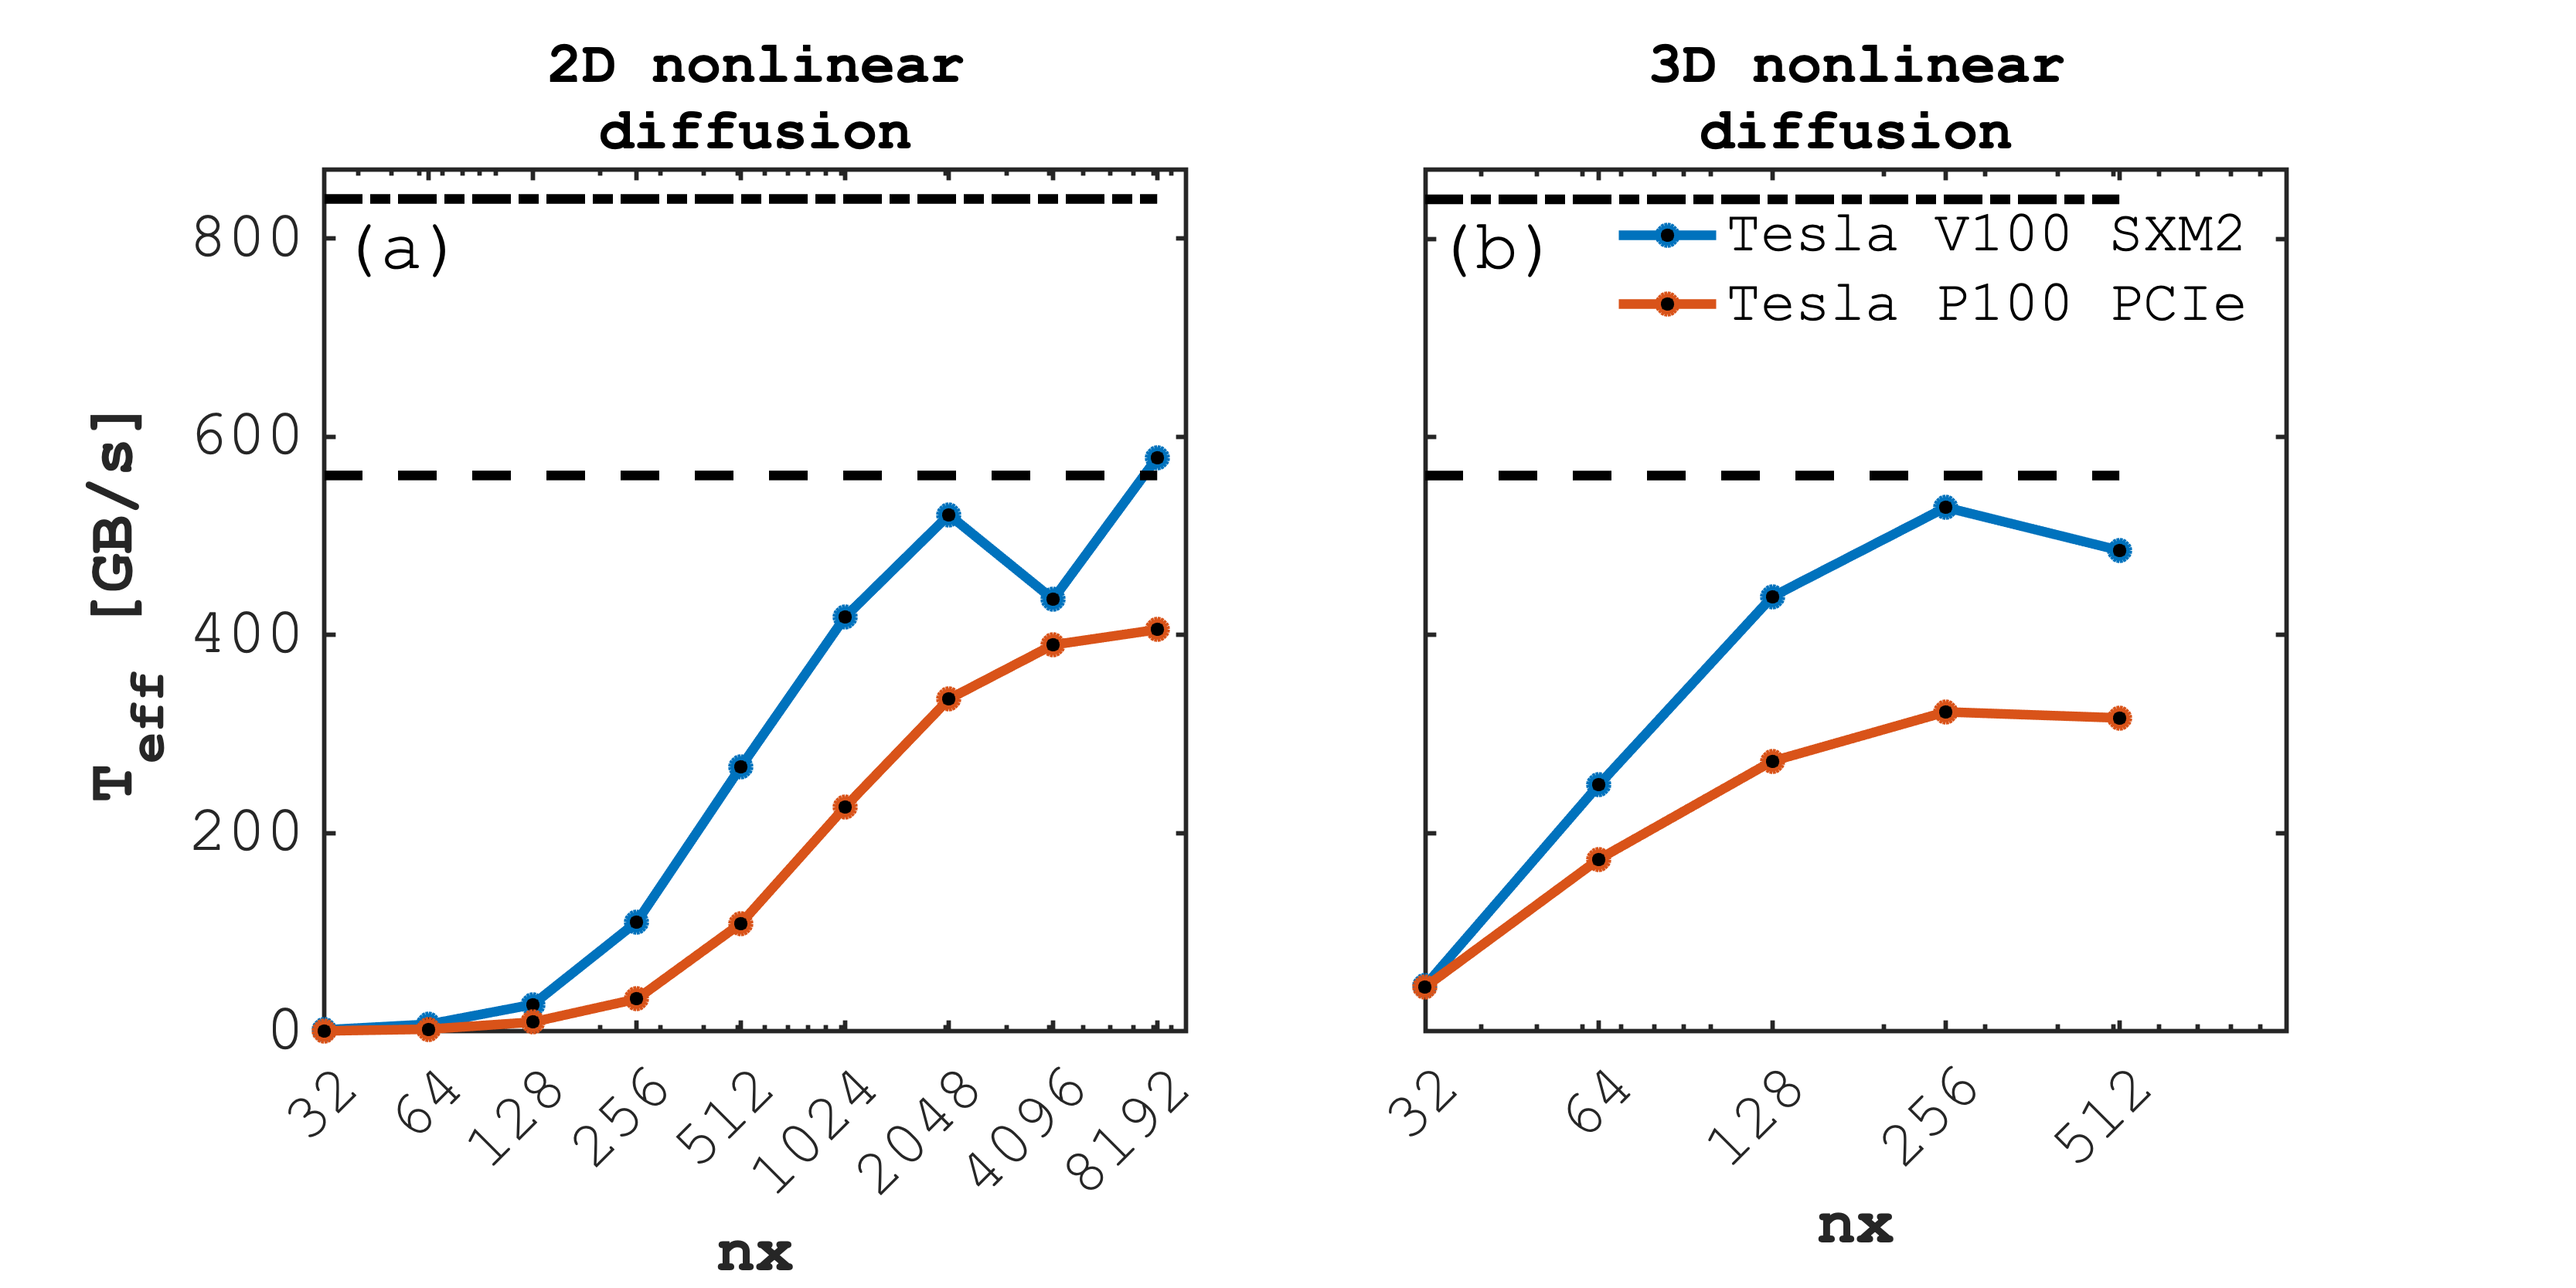
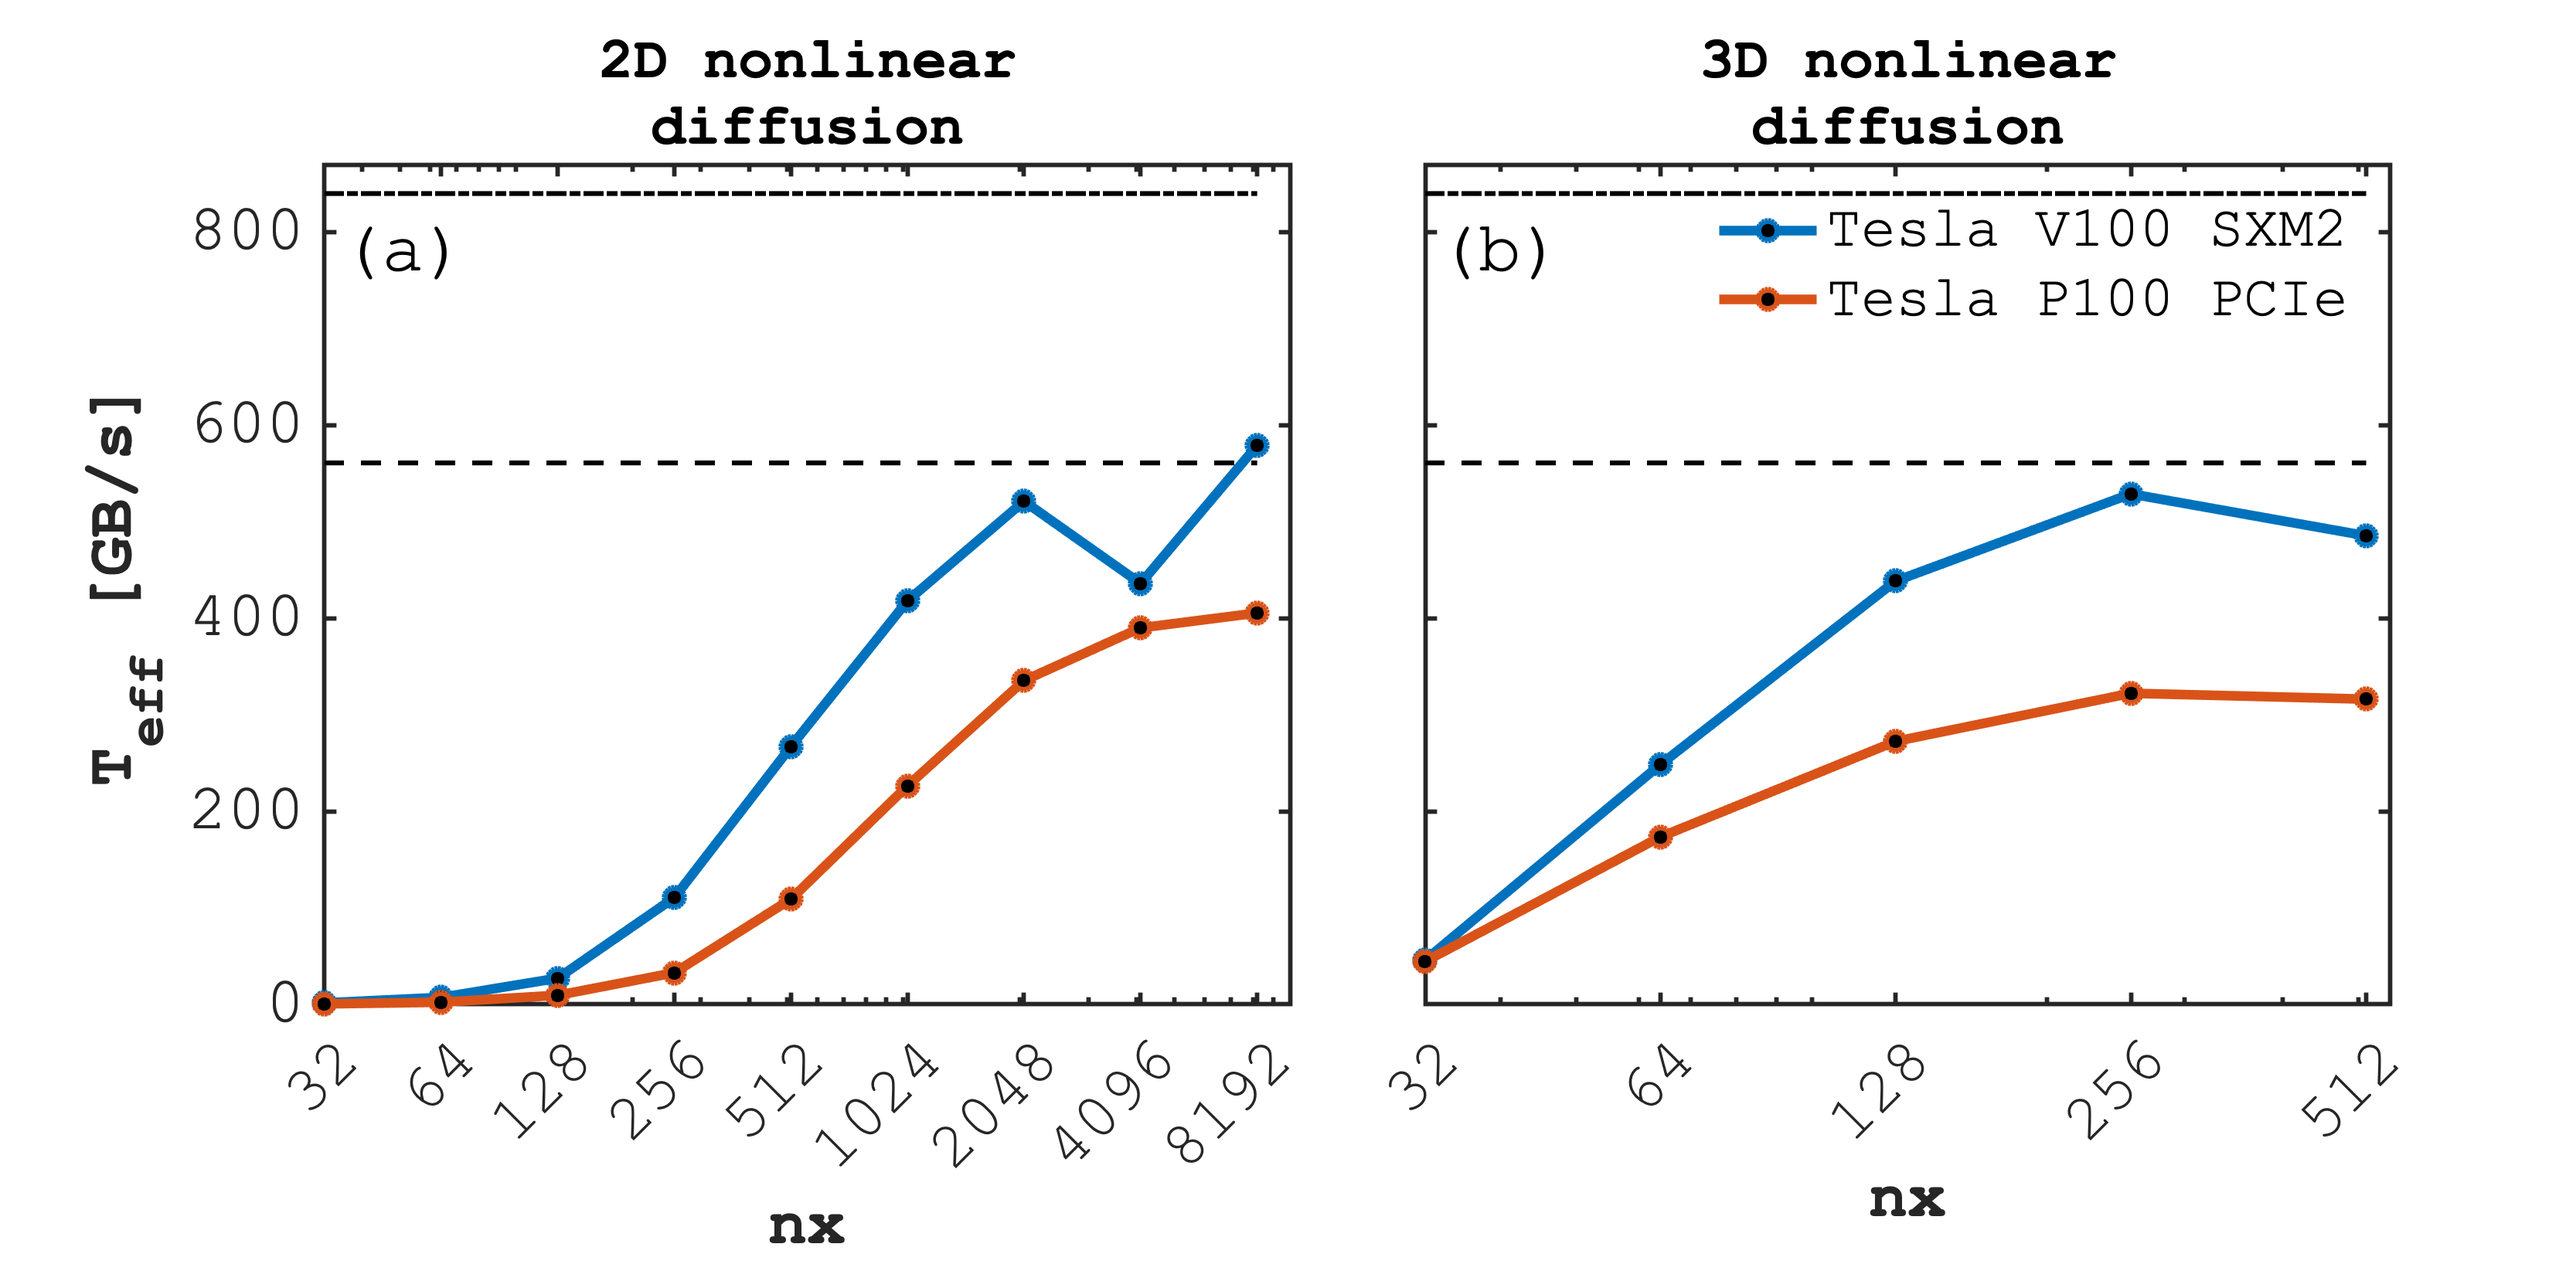
Update figure layout.

diff --git a/visu/viz_perf.m b/visu/viz_perf.m
@@ -50,14 +50,16 @@ single_daint_diff   = 315.6;
 single_daint_stokes = 210.2;
 single_volta_diff   = 481.1;
 single_volta_stokes = 334.1;
+sc = 100; % to get percent
 
 FS = 20;
 mylim = [0 870];
-ylab = 790;
+mylimx = [32 550];
+ylab = 780;
 
-mylim2 = [0.959 1.003];
-mylimx = [0.8 3.e3];
-ylab2 = 0.963;
+mylim2  = [0.959 1.003].*sc;
+mylimx2 = [0.8 3.e3];
+ylab2 = 0.963*sc;
 
 fig1 = 1;
 fig2 = 1;
@@ -70,11 +72,14 @@ sp1 = subplot(121);
 %diff_2D_octo_2(1,:),T_peak_octo*ones(size(diff_2D_octo_2(1,:))), 'k--',...
 semilogx(diff_2D_volta_2(1,:),diff_2D_volta_2(end,:), '-o', ...
          diff_2D_daint_2(1,:),diff_2D_daint_2(end,:), '-o', ...
-         diff_2D_octo_2(1,:),T_peak_volta*ones(size(diff_2D_octo_2(1,:))),'k-.', ...
+         'linewidth',3, 'MarkerFaceColor','k'), set(gca, 'fontsize',FS, 'linewidth',1.4)
+hold on
+semilogx(diff_2D_octo_2(1,:),T_peak_volta*ones(size(diff_2D_octo_2(1,:))),'k-.', ...
          diff_2D_octo_2(1,:),T_peak_daint*ones(size(diff_2D_octo_2(1,:))),'k--', ...
-         'linewidth',3, 'MarkerFaceColor','k'), axis square, set(gca, 'fontsize',FS, 'linewidth',1.4)
+         'linewidth',1.5, 'MarkerFaceColor','k')
+hold off
 title({'2D nonlinear'; 'diffusion'},'fontsize',FS-2)
- ylabel({' ';'\bf{T_{eff} [GB/s]}'}, 'fontsize',FS)
+ylabel({' ';'\bf{T_{eff} [GB/s]}'}, 'fontsize',FS)
 ylim(mylim)
 set(gca, 'XTick',diff_2D_octo_2(1,:))
 xtickangle(45)
@@ -88,20 +93,24 @@ sp2 = subplot(122);
 %diff_3D_volta_2(2,:),T_peak_octo*ones(size(diff_3D_volta_2(2,:))), 'k--',...
 semilogx(diff_3D_volta_2(2,:),diff_3D_volta_2(end,:), '-o', ...
          diff_3D_daint_2(2,:),diff_3D_daint_2(end,:), '-o', ...
-         diff_3D_volta_2(2,:),T_peak_volta*ones(size(diff_3D_volta_2(2,:))),'k-.', ...
+         'linewidth',3, 'MarkerFaceColor','k'), set(gca, 'fontsize',FS, 'linewidth',1.4)
+hold on
+semilogx(diff_3D_volta_2(2,:),T_peak_volta*ones(size(diff_3D_volta_2(2,:))),'k-.', ...
          diff_3D_volta_2(2,:),T_peak_daint*ones(size(diff_3D_volta_2(2,:))),'k--', ...
-     'linewidth',3, 'MarkerFaceColor','k'), axis square, set(gca, 'fontsize',FS, 'linewidth',1.4)
+         'linewidth',1.5, 'MarkerFaceColor','k')
+hold off
 title({'3D nonlinear'; 'diffusion'},'fontsize',FS-2)
 lg=legend('Tesla V100 SXM2', 'Tesla P100 PCIe'); set(lg,'box','off')
 ylim(mylim)
+xlim(mylimx)
 set(gca, 'XTick',diff_3D_volta_2(2,:), 'YTicklabel',[])
 xtickangle(45)
 set(gca,'fontname','Courier')
 xlabel('\bf{nx}', 'fontsize',FS)
 text(33,ylab,'(b)','fontsize',FS+2,'fontname','Courier')
 
-pos1 = get(sp1,'position'); set(sp1,'position',[pos1(1)*0.97  pos1(2)*1.15 pos1(3)*1 pos1(4)*1])
-pos2 = get(sp2,'position'); set(sp2,'position',[pos2(1)*0.97  pos2(2)*1.15 pos2(3)*1 pos2(4)*1])
+pos1 = get(sp1,'position'); set(sp1,'position',[pos1(1)*0.97  pos1(2)*2 pos1(3)*1.12 pos1(4)*0.8])
+pos2 = get(sp2,'position'); set(sp2,'position',[pos2(1)*0.97  pos2(2)*2 pos2(3)*1.12 pos2(4)*0.8])
 fig = gcf;
 fig.PaperPositionMode = 'auto';
 % print('fig_perf23D_diff_2','-dpng','-r300')
@@ -112,14 +121,14 @@ if fig2==1
 figure(2),clf,set(gcf,'color','white','pos',[1400 10 800 400])
 sp1 = subplot(121);
 % diff_3D_mxpu_octo_2(1,:),diff_3D_mxpu_octo_2(end,:)./diff_3D_mxpu_octo_2(end,1), '-o', ...
-semilogx(diff_3D_mxpu_volta_2(1,:),diff_3D_mxpu_volta_2(end,:)./single_volta_diff, '-o', ...
-         diff_3D_mxpu_daint_2(1,:),diff_3D_mxpu_daint_2(end,:)./single_daint_diff, '-o', ...
-        'linewidth',3, 'MarkerFaceColor','k'), axis square, set(gca, 'fontsize',FS, 'linewidth',1.4)
+semilogx(diff_3D_mxpu_volta_2(1,:),diff_3D_mxpu_volta_2(end,:)./single_volta_diff.*sc, '-o', ...
+         diff_3D_mxpu_daint_2(1,:),diff_3D_mxpu_daint_2(end,:)./single_daint_diff.*sc, '-o', ...
+        'linewidth',3, 'MarkerFaceColor','k'), set(gca, 'fontsize',FS, 'linewidth',1.4)
 title({'3D nonlinear'; 'diffusion'},'fontsize',FS-2)
-ylabel({' ';'\bf{E}'}, 'fontsize',FS)
+ylabel({' ';'\bf{E} [%]'}, 'fontsize',FS)
 % lg=legend('Titan Xm', 'Tesla V100 SXM2'); set(lg,'box','off')
 ylim(mylim2)
-xlim(mylimx)
+xlim(mylimx2)
 set(gca, 'XTick',diff_3D_mxpu_daint_2(1,:))
 xtickangle(45)
 set(gca,'fontname','Courier')
@@ -128,22 +137,22 @@ text(1.1,ylab2,'(a)','fontsize',FS+2,'fontname','Courier')
 
 sp2 = subplot(122);
 % stokes_3D_mxpu_octo_2(1,:),stokes_3D_mxpu_octo_2(end,:)./stokes_3D_mxpu_octo_2(end,1), '-o', ...
-semilogx(stokes_3D_mxpu_volta_2(1,:),stokes_3D_mxpu_volta_2(end,:)./single_volta_stokes, '-o', ...
-         stokes_3D_mxpu_daint_2(1,:),stokes_3D_mxpu_daint_2(end,:)./single_daint_stokes, '-o', ...
-     'linewidth',3, 'MarkerFaceColor','k'), axis square, set(gca, 'fontsize',FS, 'linewidth',1.4)
+semilogx(stokes_3D_mxpu_volta_2(1,:),stokes_3D_mxpu_volta_2(end,:)./single_volta_stokes.*sc, '-o', ...
+         stokes_3D_mxpu_daint_2(1,:),stokes_3D_mxpu_daint_2(end,:)./single_daint_stokes.*sc, '-o', ...
+     'linewidth',3, 'MarkerFaceColor','k'),set(gca, 'fontsize',FS, 'linewidth',1.4)
 title({'3D visco-elastic'; 'Stokes'},'fontsize',FS-2)
 % ylabel({' ';'\bf{E}'}, 'fontsize',FS)
 lg=legend('Tesla V100 SXM2', 'Tesla P100 PCIe'); set(lg,'box','off')
 ylim(mylim2)
-xlim(mylimx)
+xlim(mylimx2)
 set(gca, 'XTick',stokes_3D_mxpu_daint_2(1,:), 'YTicklabel',[])
 xtickangle(45)
 set(gca,'fontname','Courier')
 xlabel('\bf{P (GPUs)}', 'fontsize',FS)
 text(1.1,ylab2,'(b)','fontsize',FS+2,'fontname','Courier')
 
-pos1 = get(sp1,'position'); set(sp1,'position',[pos1(1)*1.04  pos1(2)*1.2 pos1(3)*1 pos1(4)*1])
-pos2 = get(sp2,'position'); set(sp2,'position',[pos2(1)*0.96  pos2(2)*1.2 pos2(3)*1 pos2(4)*1])
+pos1 = get(sp1,'position'); set(sp1,'position',[pos1(1)*1.04  pos1(2)*2 pos1(3)*1.1 pos1(4)*0.8])
+pos2 = get(sp2,'position'); set(sp2,'position',[pos2(1)*0.96  pos2(2)*2 pos2(3)*1.1 pos2(4)*0.8])
 
 fig = gcf;
 fig.PaperPositionMode = 'auto';

diff --git a/visu/viz_scaling.m b/visu/viz_scaling.m
@@ -29,7 +29,7 @@ st = 2;
 semilogx(diff_1D_lin(1,st:end), diff_1D_lin(2,st:end)./diff_1D_lin(1,st:end)./diff_1D_lin(3,st:end),'-o', ...
          diff_2D_lin(1,st:end), diff_2D_lin(3,st:end)./diff_2D_lin(1,st:end)./diff_2D_lin(4,st:end),'-o', ...
          diff_3D_lin(1,1:end),  diff_3D_lin(4,1:end)./ diff_3D_lin(1,1:end)./ diff_3D_lin(5,1:end),'-o', ...
-         'linewidth',3, 'MarkerFaceColor','k'), axis square, set(gca, 'fontsize',FS, 'linewidth',1.4)
+         'linewidth',3, 'MarkerFaceColor','k'), set(gca, 'fontsize',FS, 'linewidth',1.4)
 ylabel({' ';'\bf{iter_{tot}/nt/nx}'}, 'fontsize',FS)
 ylim(mylim)
 % lg=legend('1D', '2D', '3D'); set(lg,'box','off')
@@ -45,7 +45,7 @@ st = 2;
 semilogx(diff_1D_linstep(1,st:end), diff_1D_linstep(2,st:end)./diff_1D_linstep(1,st:end)./diff_1D_linstep(3,st:end),'-o', ...
          diff_2D_linstep(1,st:end), diff_2D_linstep(3,st:end)./diff_2D_linstep(1,st:end)./diff_2D_linstep(4,st:end),'-o', ...
          diff_3D_linstep(1,1:end),  diff_3D_linstep(4,1:end)./diff_3D_linstep(1,1:end)./diff_3D_linstep(5,1:end),'-o', ...
-         'linewidth',3, 'MarkerFaceColor','k'), axis square, set(gca, 'fontsize',FS, 'linewidth',1.4)
+         'linewidth',3, 'MarkerFaceColor','k'), set(gca, 'fontsize',FS, 'linewidth',1.4)
 title({'linear step'; 'diffusion'})
 ylim(mylim)
 set(gca, 'XTick',diff_1D_linstep(1,st:end),'YTicklabel',[])
@@ -59,7 +59,7 @@ st = 2;
 semilogx(diff_1D_nonlin(1,st:end), diff_1D_nonlin(2,st:end)./diff_1D_nonlin(1,st:end)./diff_1D_nonlin(3,st:end),'-o', ...
          diff_2D_nonlin(1,st:end), diff_2D_nonlin(3,st:end)./diff_2D_nonlin(1,st:end)./diff_2D_nonlin(4,st:end),'-o', ...
          diff_3D_nonlin(1,1:end), diff_3D_nonlin(4,1:end)./diff_3D_nonlin(1,1:end)./diff_3D_nonlin(5,1:end),'-o', ...
-         'linewidth',3, 'MarkerFaceColor','k'), axis square, set(gca, 'fontsize',FS, 'linewidth',1.4)
+         'linewidth',3, 'MarkerFaceColor','k'), set(gca, 'fontsize',FS, 'linewidth',1.4)
 lg=legend('1D', '2D', '3D'); set(lg,'box','off')
 title({'nonlinear'; 'diffusion'})
 ylim(mylim)
@@ -69,9 +69,9 @@ xlabel('\bf{nx}', 'fontsize',FS)
 set(gca,'fontname','Courier')
 text(75,ylab,'(c)','fontsize',FS+2,'fontname','Courier')
 
-pos1 = get(sp1,'position'); set(sp1,'position',[pos1(1)*0.9   pos1(2) pos1(3)*1.1 pos1(4)*1.1])
-pos2 = get(sp2,'position'); set(sp2,'position',[pos2(1)*0.97  pos2(2) pos2(3)*1.1 pos2(4)*1.1])
-pos3 = get(sp3,'position'); set(sp3,'position',[pos3(1)*0.985 pos3(2) pos3(3)*1.1 pos3(4)*1.1])
+pos1 = get(sp1,'position'); set(sp1,'position',[pos1(1)*0.8   pos1(2)*2.1 pos1(3)*1.2 pos1(4)*0.75])
+pos2 = get(sp2,'position'); set(sp2,'position',[pos2(1)*0.97  pos2(2)*2.1 pos2(3)*1.2 pos2(4)*0.75])
+pos3 = get(sp3,'position'); set(sp3,'position',[pos3(1)*1     pos3(2)*2.1 pos3(3)*1.2 pos3(4)*0.75])
 fig = gcf;
 fig.PaperPositionMode = 'auto';
 % print('fig_scale123D','-dpng','-r300')
